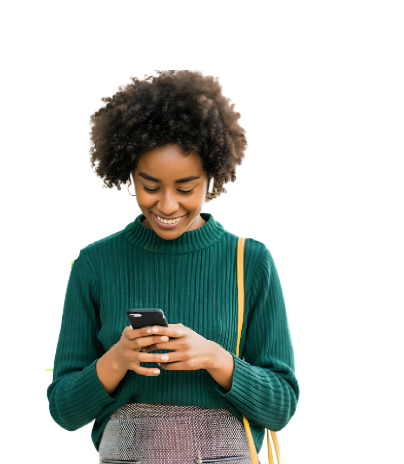
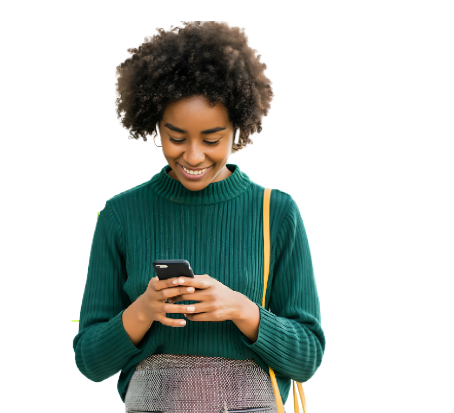
change ui

Changed region(s): [[0.1188, 0.0291, 0.7426, 1.0]]

diff --git a/index.html b/index.html
@@ -67,9 +67,7 @@
                       <h1>Overall performance</h1>
                     </div>
                   </div>
-                  <img class="person-img" src="./images/New Project (3).png" alt="img of a person smiling at their phone">
-                  <!-- <img class="person-img" src="./images/heropsnimg.png" alt="img of a person smiling at their phone"> -->
-                  <!-- <img class="tps-img" src="./images/hero-image2.png" alt="hero illustration" /> -->
+                  <img class="person-img" src="./images/heropsnimg.png" alt="img of a person smiling at their phone">
                 </div>
               </div>
             </div>
@@ -356,8 +354,8 @@
 
         <div class="faq-grid-right">
           <div class="img-wrp">
-            <!-- <img src="./images/hero-image2.png" alt="an image of the client dashboard"> -->
-            <img src="https://www.zembula.com/wp-content/uploads/2024/06/Hundreds-of-Use-Cases.png" alt="image of the client dashboard">
+            <img src="./images/hero-image2.png" alt="an image of the client dashboard">
+            <!-- <img src="https://www.zembula.com/wp-content/uploads/2024/06/Hundreds-of-Use-Cases.png" alt="image of the client dashboard"> -->
           </div>
         </div>
 
@@ -494,22 +492,6 @@ Select the plan that suits your needs
         </div>
     </div>
 </section>
-      <!-- <section class="shq-wrapper">
-        <div class="shq-wrp">
-          <div class="shq-container">
-            <p class="section-ttl">Still have questions?</p>
-            <p class="shq-p">
-              Please describe your case to receive the most accurate
-              advice.
-            </p>
-            <div class="contact-btn-div">
-              <a class="page-btn" href="mailto:kabadi@gmail.com"
-                >Contact Us</a
-              >
-            </div>
-          </div>
-        </div>
-      </section> -->
 
           <main class="homepage-ord-wrapper">
 
